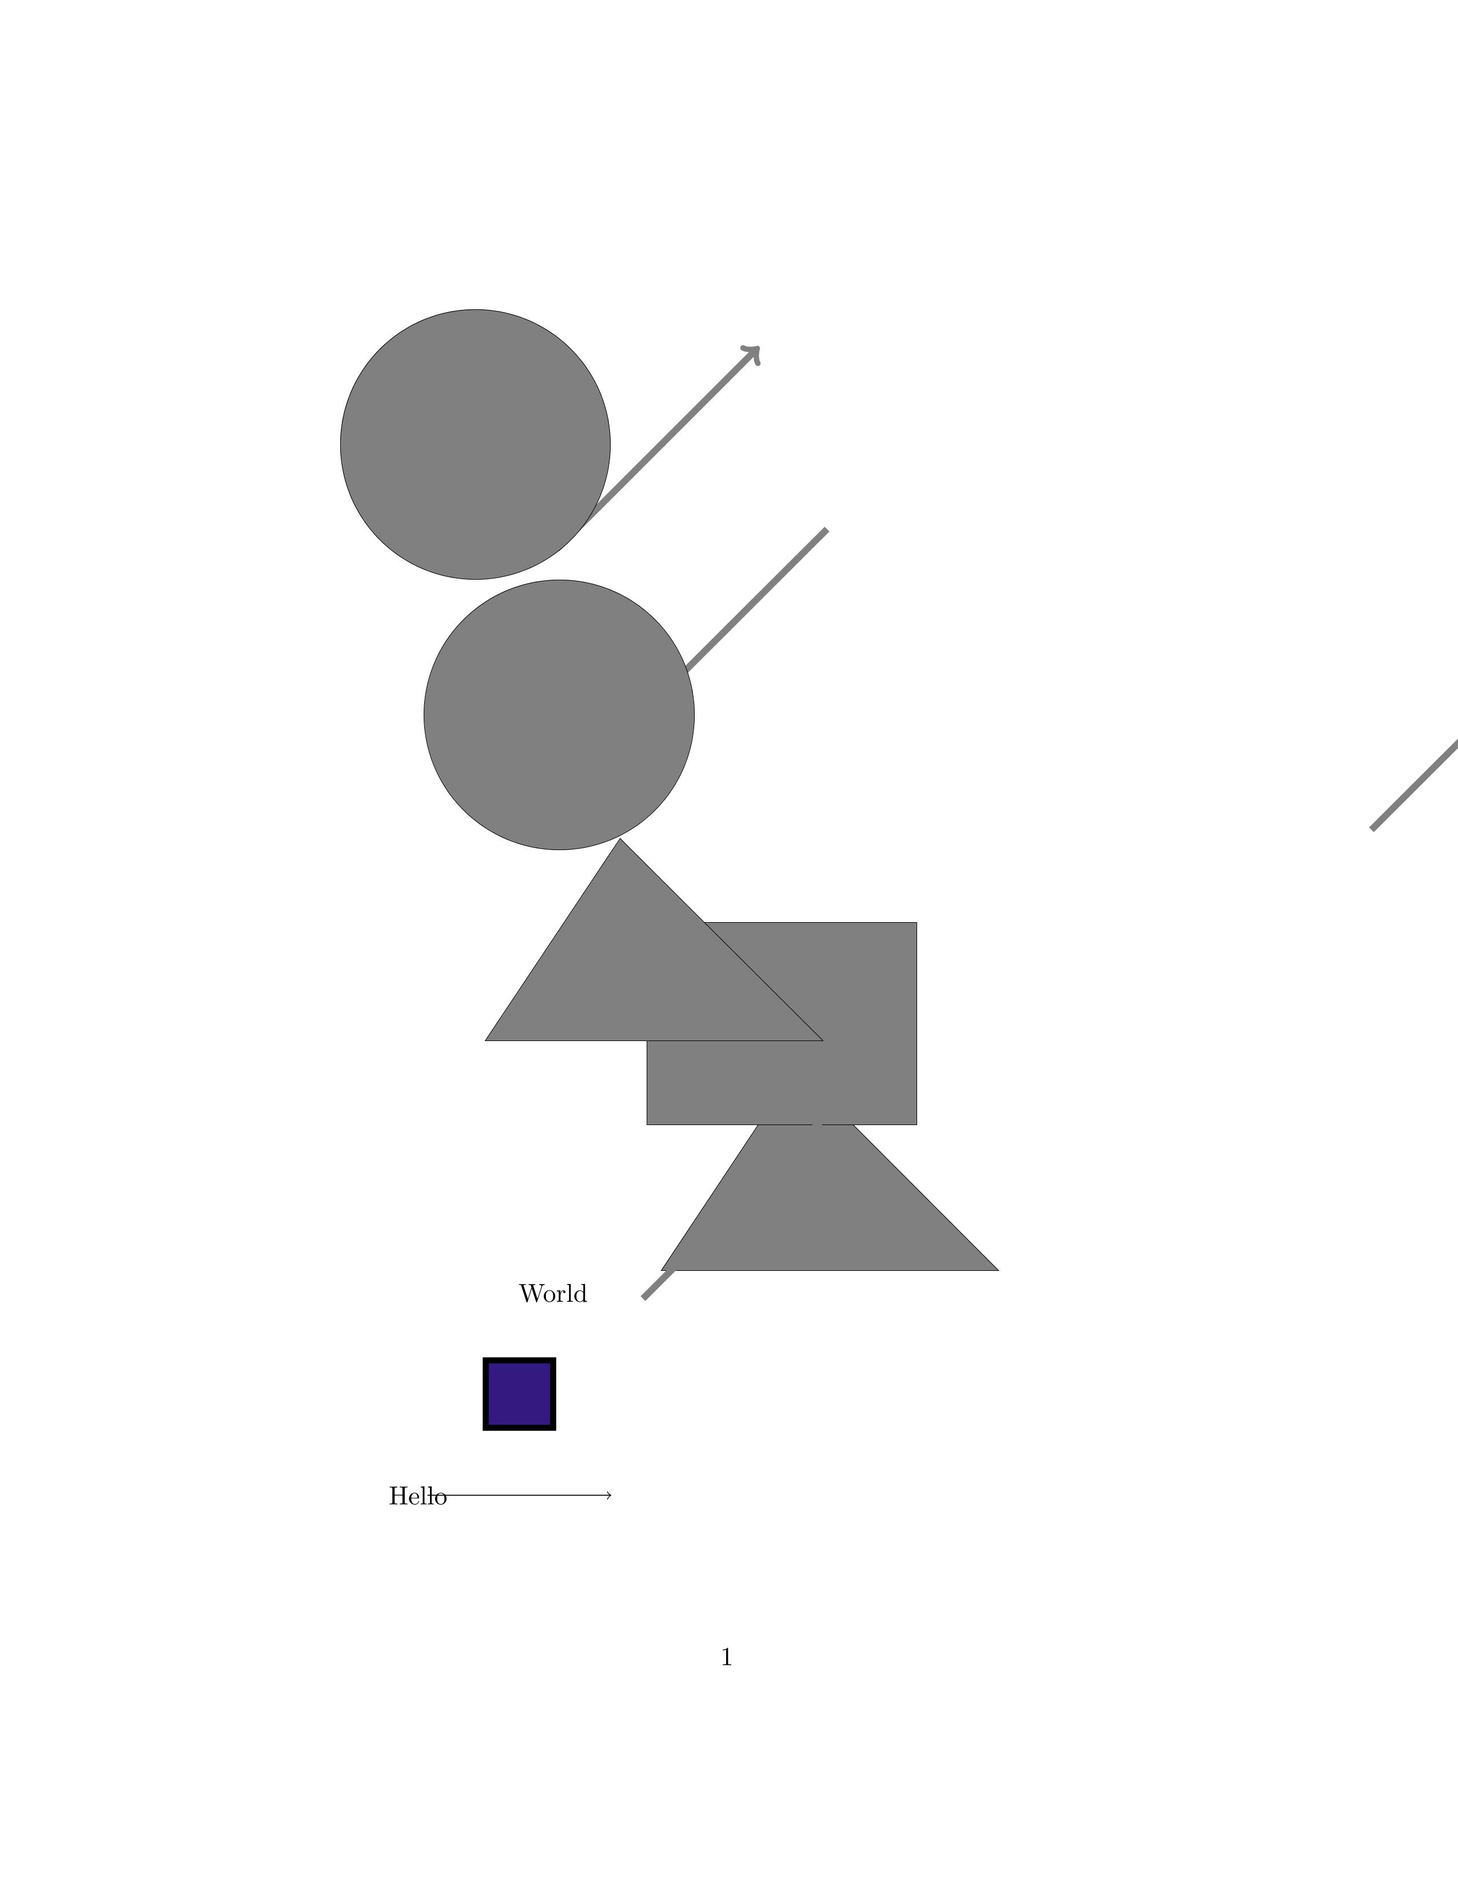
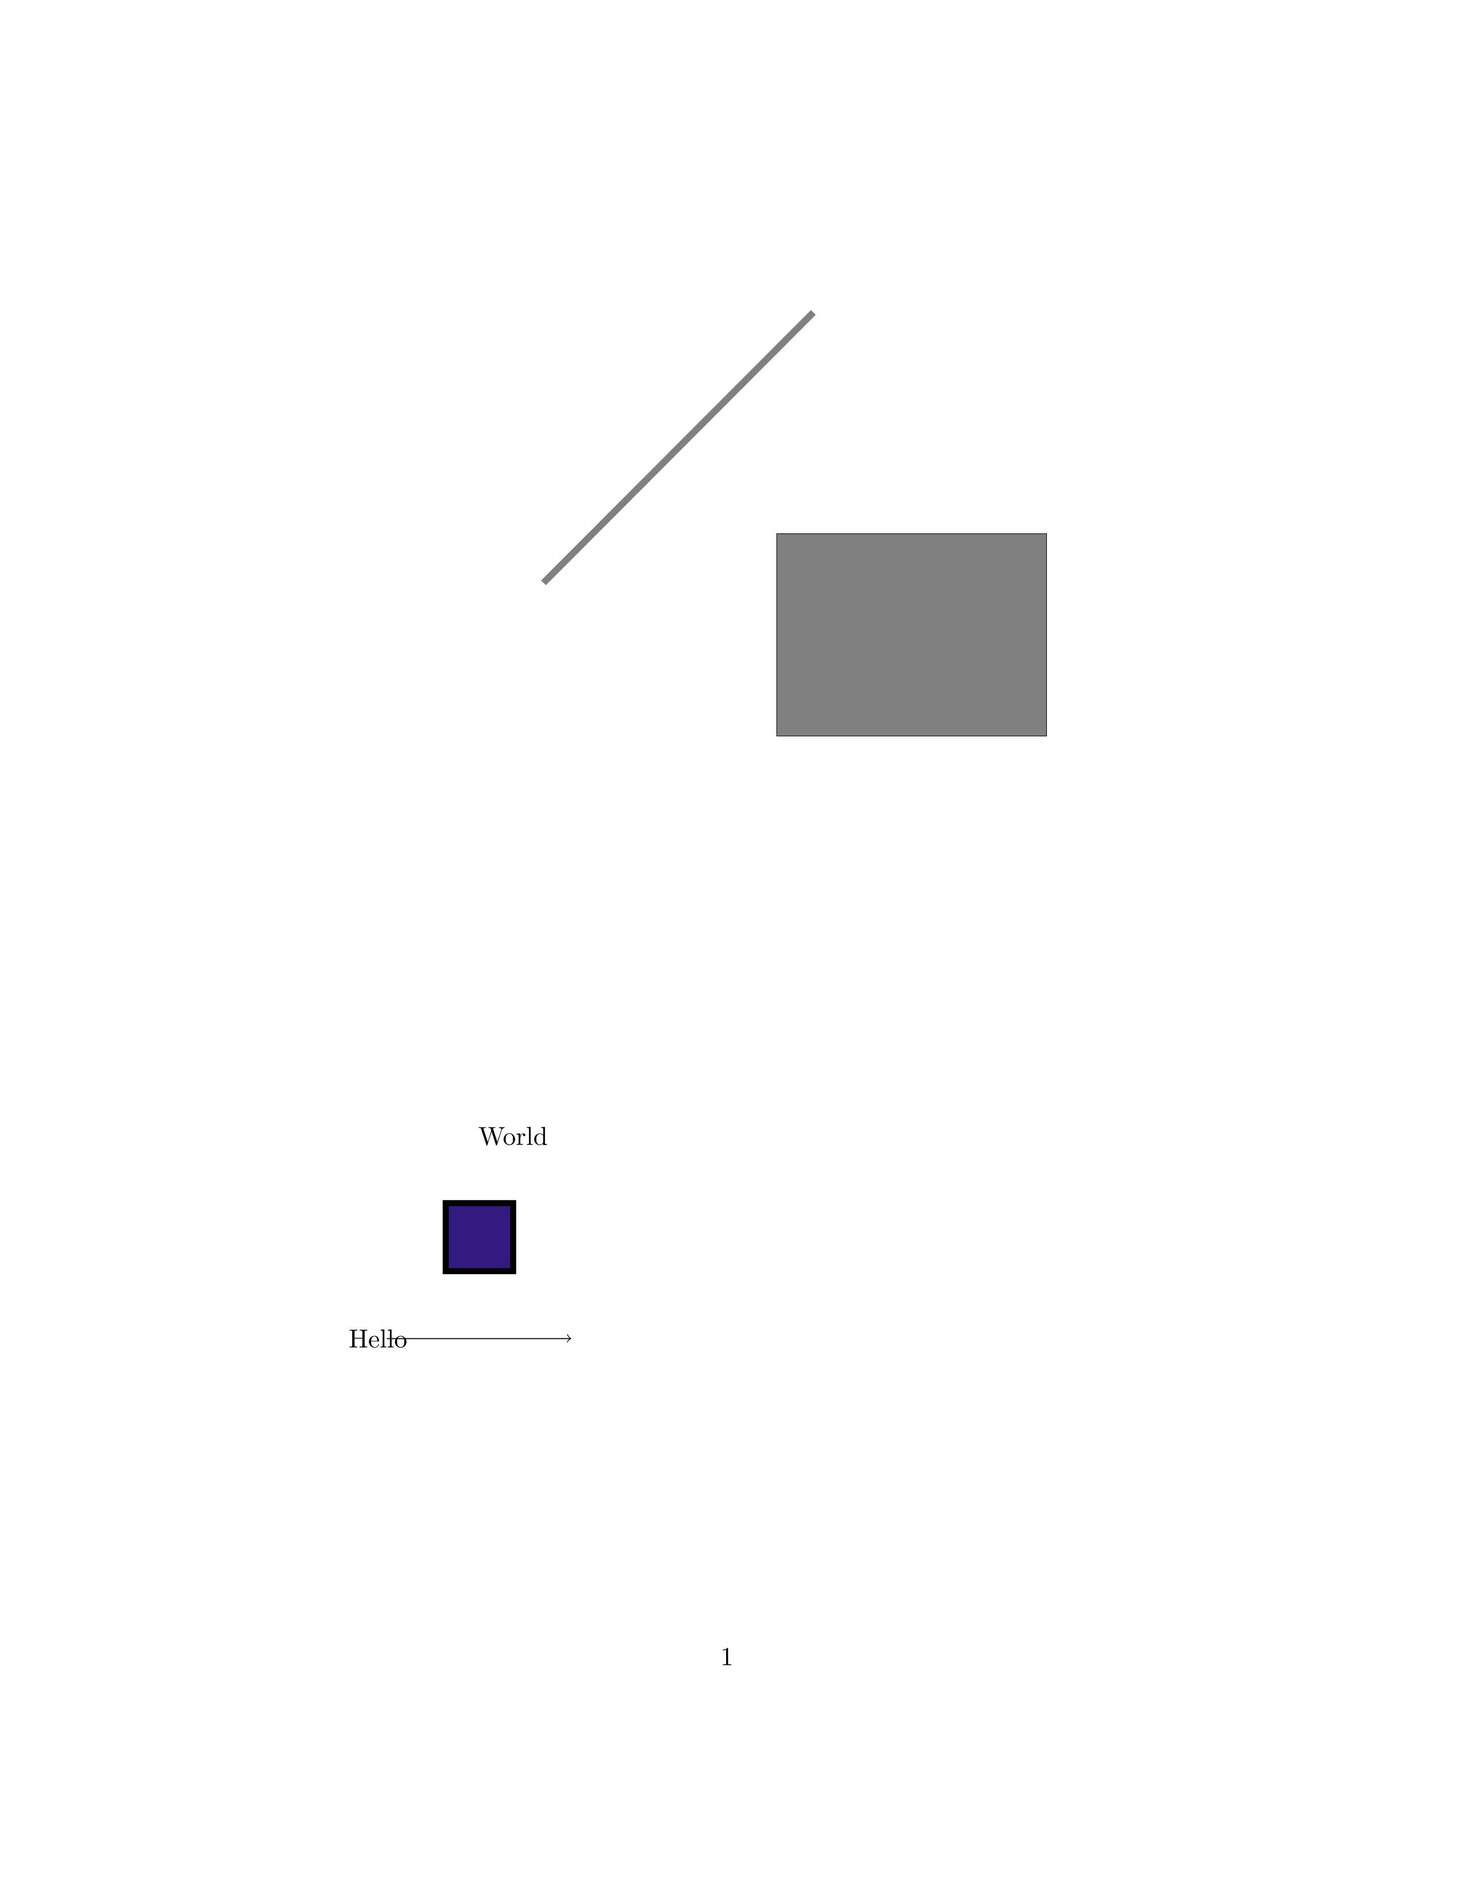
Merge without comments

diff --git a/src/Controller/LatexController.java b/src/Controller/LatexController.java
@@ -1,9 +1,10 @@
 package Controller;
 
+import Controller.Exceptions.BuildFullCodeFromShapesOnlyException;
+import Controller.Exceptions.GetTextInFileException;
+import Controller.Exceptions.LatexControllerConstructorException;
 import Controller.Exceptions.TikzCompilationException;
-import Model.Exceptions.LatexCompilationException;
-import Model.Exceptions.LatexWritingException;
-import Model.Exceptions.LogErrorException;
+import Model.Exceptions.*;
 import Model.FileHandler;
 import Model.LatexCompiler;
 import Model.PDFHandler;
@@ -22,11 +23,16 @@ import java.util.regex.Pattern;
  */
 public class LatexController implements MainPageViewController.CodeInterfaceListener {
 
-    FileHandler fileHandler = new FileHandler();
+    FileHandler fileHandler;
     private MainPageViewController mainPageViewController;
 
-    public LatexController(MainPageViewController mainPageViewController) {
-        this.mainPageViewController = mainPageViewController;
+    public LatexController(MainPageViewController mainPageViewController) throws LatexControllerConstructorException {
+        try {
+            this.fileHandler = new FileHandler();
+            this.mainPageViewController = mainPageViewController;
+        } catch (FileHandlerConstructorException e) {
+            throw new LatexControllerConstructorException(e);
+        }
     }
 
     /**
@@ -34,16 +40,13 @@ public class LatexController implements MainPageViewController.CodeInterfaceList
      *
      * @return Source code
      */
-    public String getTextInFile() {
+    public String getTextInFile() throws GetTextInFileException {
         try {
             String filePath = "./Latex/" + Session.getInstance().getUser().getUsername() + ".tex";
             return fileHandler.readInFile(filePath);
         } catch (IOException e) {
-            System.err.println("Error while getting source code");
-            e.printStackTrace();
-            e.getCause().printStackTrace();
+            throw new GetTextInFileException(e);
         }
-        return "";
     }
 
     /**
@@ -140,12 +143,17 @@ public class LatexController implements MainPageViewController.CodeInterfaceList
      * @param shapesOnlyCode shapes-only TikZ code
      * @return full LaTeX code
      */
-    public String buildFullCodeFromShapesOnlyCode(String shapesOnlyCode) {
-        StringBuilder shapesOnlyCodeBuilder = new StringBuilder();
-        for (String line : shapesOnlyCode.split("\n")) {
-            shapesOnlyCodeBuilder.append("\t").append(line.trim()).append("\n");
+    public String buildFullCodeFromShapesOnlyCode(String shapesOnlyCode) throws BuildFullCodeFromShapesOnlyException {
+        try {
+            StringBuilder shapesOnlyCodeBuilder = new StringBuilder();
+            for (String line : shapesOnlyCode.split("\n")) {
+                shapesOnlyCodeBuilder.append("\t").append(line.trim()).append("\n");
+            }
+            return getTextInFile().replace(Objects.requireNonNull(extractShapesSubCode(getTextInFile(), false)), shapesOnlyCodeBuilder.toString());
+        } catch (GetTextInFileException e) {
+            throw new BuildFullCodeFromShapesOnlyException(e);
         }
-        return getTextInFile().replace(Objects.requireNonNull(extractShapesSubCode(getTextInFile(), false)), shapesOnlyCodeBuilder.toString());
+
     }
 
     @Override
@@ -159,14 +167,25 @@ public class LatexController implements MainPageViewController.CodeInterfaceList
             System.err.println("TikZ/LaTeX compilation failed");
             e.printStackTrace();
             e.getCause().printStackTrace();
+        } catch (BuildFullCodeFromShapesOnlyException e) {
+            System.err.println("Building code from shapes only failed");
+            e.printStackTrace();
+            e.getCause().printStackTrace();
         }
     }
 
     @Override
     public String getShapesOnlyText() {
-        String textInLatexFile = getTextInFile();
-        String textSaved = extractShapesSubCode(textInLatexFile, true);
-        return textSaved;
+        try {
+            String textInLatexFile = getTextInFile();
+            String textSaved = extractShapesSubCode(textInLatexFile, true);
+            return textSaved;
+        } catch (GetTextInFileException e) {
+            System.err.println("Error while getting the source code");
+            e.printStackTrace();
+            e.getCause().printStackTrace();
+        }
+        return "";
     }
 
     @Override
@@ -176,12 +195,26 @@ public class LatexController implements MainPageViewController.CodeInterfaceList
 
     @Override
     public String getFullText() {
-        return getTextInFile();
+        try {
+            return getTextInFile();
+        } catch (GetTextInFileException e) {
+            System.err.println("Error while getting the full text");
+            e.printStackTrace();
+            e.getCause().printStackTrace();
+        }
+        return "";
     }
 
     @Override
     public void saveCodeInterfaceCode(String tikzCode) {
-        saveTikz(buildFullCodeFromShapesOnlyCode(tikzCode));
+        try {
+            saveTikz(buildFullCodeFromShapesOnlyCode(tikzCode));
+        } catch (BuildFullCodeFromShapesOnlyException e) {
+            System.err.println("Error while getting the full code");
+            e.printStackTrace();
+            e.getCause().printStackTrace();
+        }
+
     }
 
     @Override

diff --git a/src/Model/FileHandler.java b/src/Model/FileHandler.java
@@ -17,12 +17,20 @@ public class FileHandler {
     private String saveProjectDirectory = "";
     private String saveUserFormat = ".txt";
 
-    public FileHandler() {
-        setupSaveUserDirectory(DEFAULT_DIRECTORY);
+    public FileHandler() throws FileHandlerConstructorException{
+        try {
+            setupSaveUserDirectory(DEFAULT_DIRECTORY);
+        } catch (SetupDirectoryException e) {
+            throw new FileHandlerConstructorException(e);
+        }
     }
 
-    public FileHandler(String saveUserDirectory) {
-        setupSaveUserDirectory(saveUserDirectory);
+    public FileHandler(String saveUserDirectory) throws FileHandlerConstructorException{
+        try {
+            setupSaveUserDirectory(saveUserDirectory);
+        } catch (SetupDirectoryException e) {
+            throw new FileHandlerConstructorException(e);
+        }
     }
 
     /**
@@ -30,13 +38,17 @@ public class FileHandler {
      *
      * @param saveUserDirectory Path to the directory users' saves
      */
-    public void setupSaveUserDirectory(String saveUserDirectory) {
-        if (saveUserDirectory == null || saveUserDirectory.equals("")) {
-            return;
+    public void setupSaveUserDirectory(String saveUserDirectory) throws SetupDirectoryException {
+        try {
+            if (saveUserDirectory == null || saveUserDirectory.equals("")) {
+                return;
+            }
+            this.saveUserDirectory = saveUserDirectory;
+            File file = new File(saveUserDirectory);
+            checkAndCreateSaveDirectory(file);
+        } catch (DirectoryCreationException e) {
+            throw new SetupDirectoryException(e);
         }
-        this.saveUserDirectory = saveUserDirectory;
-        File file = new File(saveUserDirectory);
-        checkAndCreateSaveDirectory(file);
     }
 
     /**
@@ -45,13 +57,17 @@ public class FileHandler {
      * @param saveProjectDirectory Path to the directory projects's saves
      */
 
-    public void setupSaveProjectDirectory(String saveProjectDirectory) {
-        if (saveProjectDirectory.equals("")) {
-            return;
+    public void setupSaveProjectDirectory(String saveProjectDirectory) throws SetupDirectoryException{
+        try {
+            if (saveProjectDirectory.equals("")) {
+                return;
+            }
+            this.saveProjectDirectory = saveProjectDirectory;
+            File file = new File(saveProjectDirectory);
+            checkAndCreateSaveDirectory(file);
+        } catch (DirectoryCreationException e) {
+            throw new SetupDirectoryException(e);
         }
-        this.saveProjectDirectory = saveProjectDirectory;
-        File file = new File(saveProjectDirectory);
-        checkAndCreateSaveDirectory(file);
     }
 
     /**
@@ -59,11 +75,13 @@ public class FileHandler {
      *
      * @param file File created with path to the save_user directory
      */
-    private void checkAndCreateSaveDirectory(File file) {
+    private void checkAndCreateSaveDirectory(File file) throws DirectoryCreationException{
         if (file.exists() && file.isDirectory()) {
             return;
         }
-        file.mkdir();
+        if (!file.mkdir()){
+            throw new DirectoryCreationException();
+        }
     }
 
     /**
@@ -130,7 +148,7 @@ public class FileHandler {
                 writeInFile(texFile, text);
             }
         }
-        catch (IOException e) {
+        catch (IOException | SetupDirectoryException e) {
             throw new LatexWritingException(e);
         }
     }

diff --git a/Latex/a.tex b/Latex/a.tex
@@ -17,14 +17,9 @@
 	\draw[->] (A) -- (B);
 	\filldraw[fill={rgb,1:red,0.20000000298023224;green,0.10196078568696976;blue,0.501960813999176},line width=2.5] (1.0,1.0) rectangle (2.0,2.0);
 	test
-	\draw [arrows={->[length=5.0mm, width=5.0mm]} ,line width=1.0mm ,color={rgb,1:red,0.501960813999176;green,0.501960813999176;blue,0.501960813999176}] (2.053966,14.015382) -- (5.053966,17.01538);
-	\draw [line width=1.0mm ,color={rgb,1:red,0.501960813999176;green,0.501960813999176;blue,0.501960813999176}] (2.053966,10.313671) -- (6.053966,14.313671);
-	\filldraw[fill={rgb,1:red,0.501960813999176;green,0.501960813999176;blue,0.501960813999176},line width=0.15] (3.5998583,3.3328683) --(5.5998583,6.3328686) --(8.599858,3.3328683) -- cycle;
-	\filldraw[fill={rgb,1:red,0.501960813999176;green,0.501960813999176;blue,0.501960813999176},line width=0.15] (3.387677,5.487143) rectangle (7.387677,8.487143);
-	\filldraw[fill={rgb,1:red,0.501960813999176;green,0.501960813999176;blue,0.501960813999176},line width=0.15] (0.9930595,6.7311606) --(2.9930596,9.731161) --(5.9930596,6.7311606) -- cycle;
-	\filldraw[fill={rgb,1:red,0.501960813999176;green,0.501960813999176;blue,0.501960813999176},line width=0.15] (0.84716713,15.564924) circle (2.0);
-	\filldraw[fill={rgb,1:red,0.501960813999176;green,0.501960813999176;blue,0.501960813999176},line width=0.15] (2.0899434,11.559794) circle (2.0);
-	\draw [line width=1.0mm ,color={rgb,1:red,0.501960813999176;green,0.501960813999176;blue,0.501960813999176}] (14.117989,9.856376) -- (18.117989,13.856376);
-	\draw [line width=1.0mm ,color={rgb,1:red,0.501960813999176;green,0.501960813999176;blue,0.501960813999176}] (3.3303509,2.913549) -- (7.330351,6.913549);
+	\filldraw[fill={rgb,1:red,0.501960813999176;green,0.501960813999176;blue,0.501960813999176},line width=0.15] (5.903541,8.917944) rectangle (9.903542,11.917944);
+	\draw [line width=1.0mm ,color={rgb,1:red,0.501960813999176;green,0.501960813999176;blue,0.501960813999176}] (2.448017,11.193585) -- (6.448017,15.193585);
+	\draw [arrows={->[length=5.0mm, width=5.0mm]} ,line width=1.0mm ,color={rgb,1:red,0.501960813999176;green,0.501960813999176;blue,0.501960813999176}] (1.5689802,15.2897415) -- (4.56898,18.289742);
+	\draw [arrows={->[length=5.0mm, width=5.0mm]} ,line width=1.0mm ,color={rgb,1:red,0.501960813999176;green,0.501960813999176;blue,0.501960813999176}] (1.7205383,13.620937) -- (4.720538,16.620937);
     \end{tikzpicture}
 \end{document}

diff --git a/src/Controller/AccountModificationController.java b/src/Controller/AccountModificationController.java
@@ -1,22 +1,15 @@
 package Controller;
 
+import Model.Exceptions.FileHandlerConstructorException;
 import Model.Exceptions.SaveUserException;
+import Model.Exceptions.SetupDirectoryException;
 import Model.FieldChecker;
 import Model.FileHandler;
 import Model.User;
-import View.ViewControllers.AccountCreationViewController;
 import View.ViewControllers.AccountModificationViewController;
-import View.ViewControllers.LoginScreenViewController;
 import javafx.fxml.FXMLLoader;
-import javafx.scene.Parent;
-import javafx.scene.Scene;
-import javafx.scene.text.Text;
-import javafx.stage.Modality;
 import javafx.stage.Stage;
 
-import java.io.BufferedReader;
-import java.io.File;
-import java.io.FileReader;
 import java.io.IOException;
 
 public class AccountModificationController implements AccountModificationViewController.AccountModificationViewControllerListener {
@@ -101,7 +94,10 @@ public class AccountModificationController implements AccountModificationViewCon
                 System.err.println("Error in saving the user");
                 e.printStackTrace();
                 e.getCause().printStackTrace();
-
+            } catch (FileHandlerConstructorException e) {
+                System.err.println("Error while creating the file handler");
+                e.printStackTrace();
+                e.getCause().printStackTrace();
             }
             return true;
         }

diff --git a/src/Controller/Session.java b/src/Controller/Session.java
@@ -1,7 +1,9 @@
 package Controller;
 
 import Controller.Exceptions.SessionOpeningException;
+import Model.Exceptions.FileHandlerConstructorException;
 import Model.Exceptions.SaveUserCreationException;
+import Model.Exceptions.SetupDirectoryException;
 import Model.Exceptions.UserFromSaveCreationException;
 import Model.FileHandler;
 import Model.User;
@@ -21,7 +23,13 @@ public class Session {
 
     /* Singleton class */
     private Session(){
-        fileHandler = new FileHandler();
+        try {
+            fileHandler = new FileHandler();
+        } catch (FileHandlerConstructorException e) {
+            System.err.println("Error while creating the session");
+            e.printStackTrace();
+            e.getCause().printStackTrace();
+        }
     }
 
     public static Session getInstance() {
@@ -55,7 +63,7 @@ public class Session {
                     return INVALID_PASSWORD;
                 }
             }
-        } catch (UserFromSaveCreationException e) {
+        } catch (UserFromSaveCreationException | SetupDirectoryException e) {
             throw new SessionOpeningException(e);
         }
     }

diff --git a/src/Controller/MainPageController.java b/src/Controller/MainPageController.java
@@ -1,5 +1,6 @@
 package Controller;
 
+import Controller.Exceptions.LatexControllerConstructorException;
 import Controller.Exceptions.ShapeMenuControllerConstructorException;
 import Controller.Exceptions.ShowMainPageException;
 import Model.Shapes.Shape;
@@ -49,6 +50,10 @@ public class MainPageController implements MainPageViewController.MainPageViewCo
             e.getCause().printStackTrace();
         } catch (IOException e) {
             System.err.println("Error while loading the fxml file");
+            e.printStackTrace();
+            e.getCause().printStackTrace();
+        } catch (LatexControllerConstructorException e) {
+            System.err.println("Error while creating the latex controller");
             e.printStackTrace();
             e.getCause().printStackTrace();
         }

diff --git a/src/Controller/AccountCreationController.java b/src/Controller/AccountCreationController.java
@@ -106,9 +106,8 @@ public class AccountCreationController implements AccountCreationViewController.
      */
     @Override
     public void showTermsAndConditions() {
-        Parent tcuRoot = null;
         try {
-            tcuRoot = FXMLLoader.load(getClass().getResource("/View/FXML/termsAndConditions.fxml"));
+            Parent tcuRoot = FXMLLoader.load(getClass().getResource("/View/FXML/termsAndConditions.fxml"));
             Scene tcuScene = new Scene(tcuRoot);
             Stage tcuStage = new Stage();
             tcuStage.initModality(Modality.APPLICATION_MODAL);

diff --git a/src/View/ViewControllers/AccountCreationViewController.java b/src/View/ViewControllers/AccountCreationViewController.java
@@ -56,8 +56,6 @@ public class AccountCreationViewController extends AccountController implements 
 
     /**
      * Creates a pop-up window when user clicks on "I accept terms and conditions".
-     *
-     * @throws IOException when terms and conditions file doesn't exist.
      */
     public void termsAndConditionsWindow() {
         listener.showTermsAndConditions();

diff --git a/src/Controller/Exceptions/LatexControllerConstructorException.java b/src/Controller/Exceptions/LatexControllerConstructorException.java
@@ -1,0 +1,9 @@
+package Controller.Exceptions;
+
+import Model.Exceptions.SetupDirectoryException;
+
+public class LatexControllerConstructorException extends Exception {
+    public LatexControllerConstructorException(Exception e) {
+        super(e);
+    }
+}

diff --git a/src/Controller/Exceptions/GetTextInFileException.java b/src/Controller/Exceptions/GetTextInFileException.java
@@ -1,0 +1,9 @@
+package Controller.Exceptions;
+
+import java.io.IOException;
+
+public class GetTextInFileException extends Exception {
+    public GetTextInFileException(Exception e) {
+        super(e);
+    }
+}

diff --git a/src/Controller/Exceptions/BuildFullCodeFromShapesOnlyException.java b/src/Controller/Exceptions/BuildFullCodeFromShapesOnlyException.java
@@ -1,0 +1,7 @@
+package Controller.Exceptions;
+
+public class BuildFullCodeFromShapesOnlyException extends Exception {
+    public BuildFullCodeFromShapesOnlyException(Exception e) {
+        super(e);
+    }
+}

diff --git a/src/Model/Exceptions/FileHandlerConstructorException.java b/src/Model/Exceptions/FileHandlerConstructorException.java
@@ -1,0 +1,7 @@
+package Model.Exceptions;
+
+public class FileHandlerConstructorException extends Exception {
+    public FileHandlerConstructorException(Exception e) {
+        super(e);
+    }
+}
